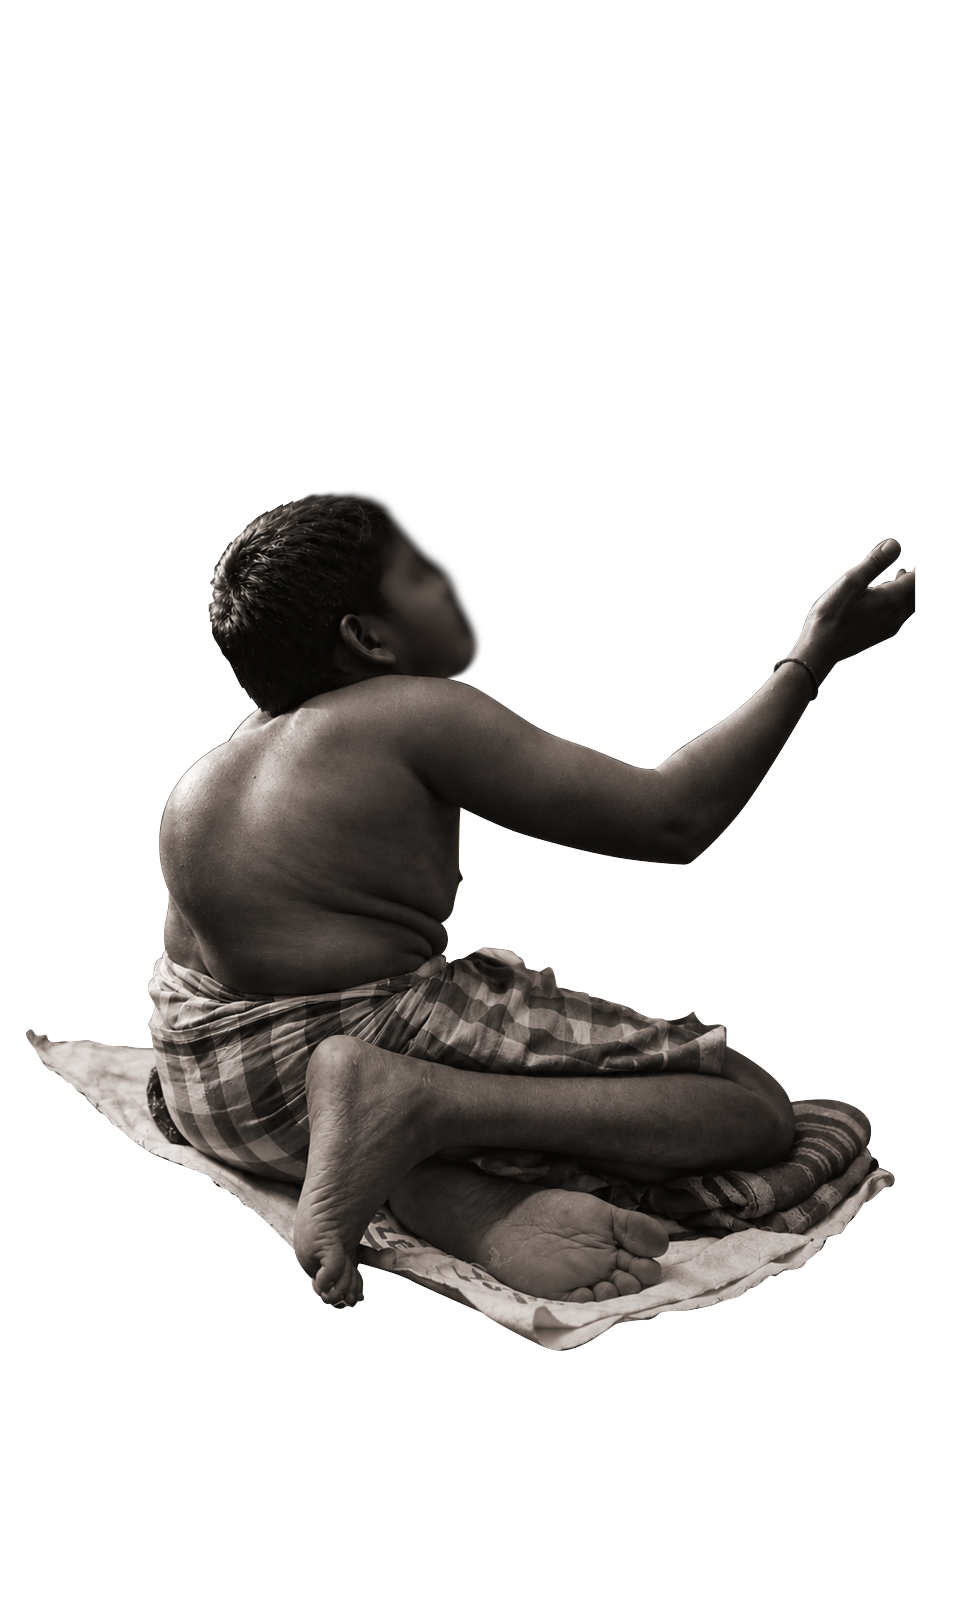
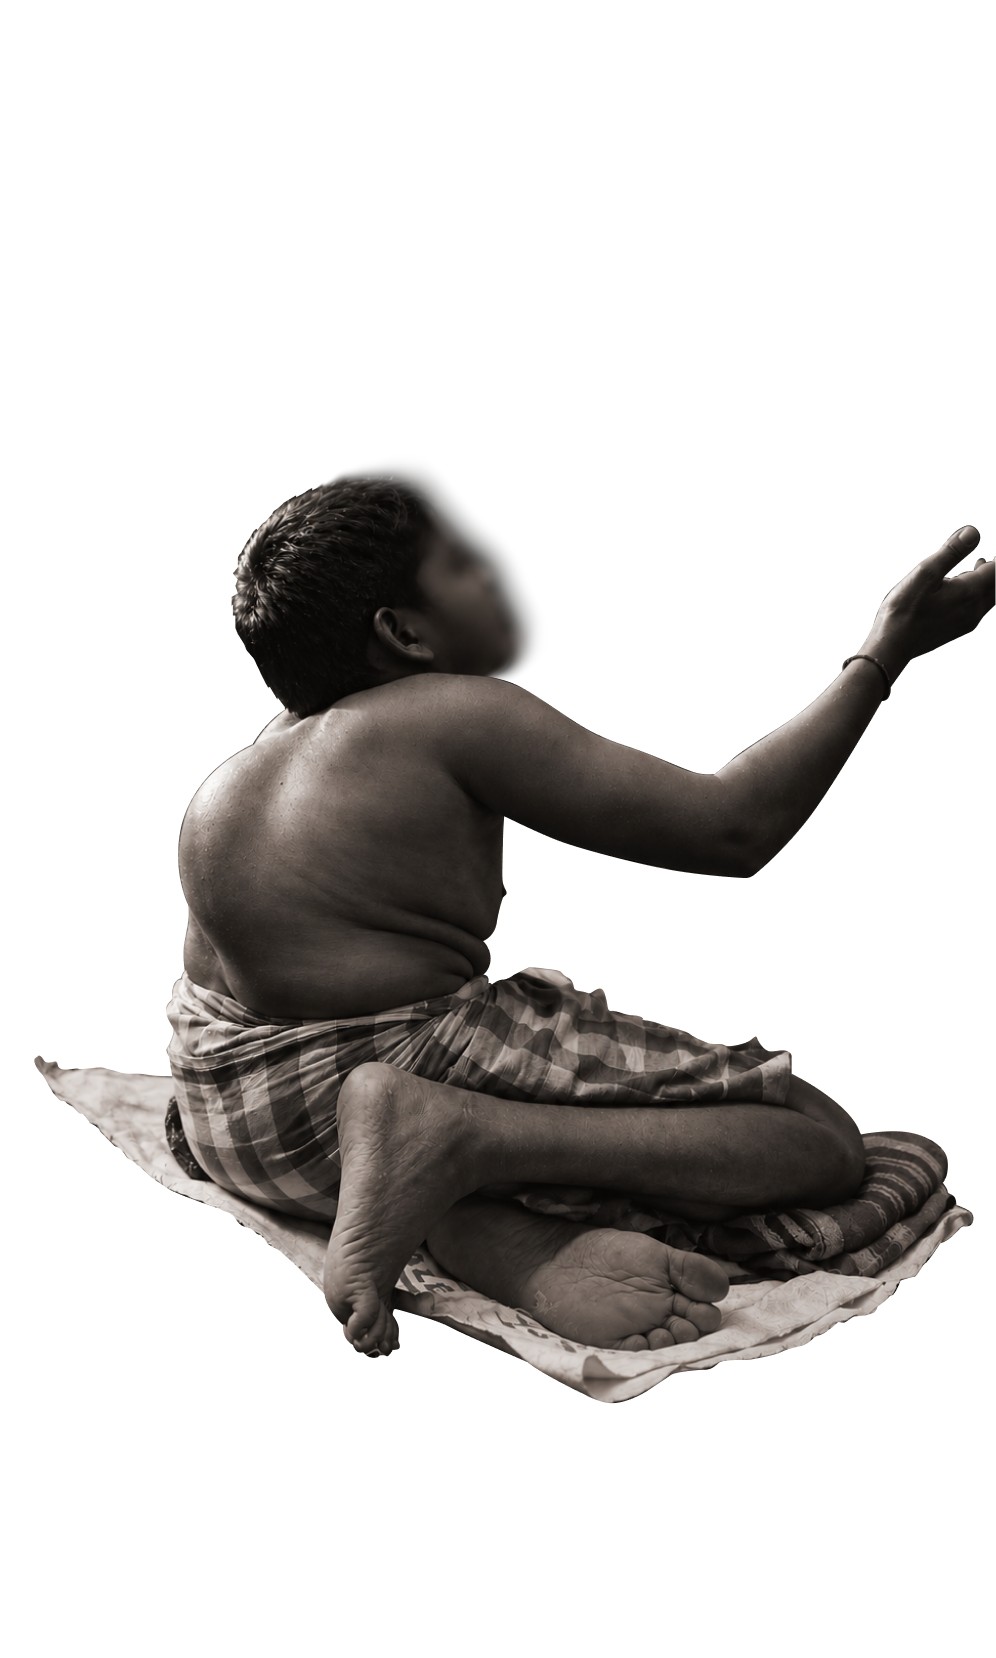
fix: stabilize journey entry slideshow

Changed region(s): [[0.0309, 0.2779, 1.0, 0.8647]]

diff --git a/src/components/WelcomeJourney.tsx b/src/components/WelcomeJourney.tsx
@@ -53,9 +53,6 @@ export const WelcomeJourney: React.FC<WelcomeJourneyProps> = ({
     initialFrame === 2 ? 'backward' : 'forward'
   )
 
-  // Auto-play state: false = manual scrolling by default; true = auto-advances
-  const [isPlaying, setIsPlaying] = useState<boolean>(false)
-
   // Mobile detection for responsive offsets
   const [isMobile, setIsMobile] = useState(() =>
     typeof window !== 'undefined' ? window.innerWidth < 768 : false
@@ -174,9 +171,6 @@ export const WelcomeJourney: React.FC<WelcomeJourneyProps> = ({
 
   const frameRef = useRef(frame)
   frameRef.current = frame
-
-  const isPlayingRef = useRef(isPlaying)
-  isPlayingRef.current = isPlaying
 
   const onCompleteRef = useRef(onComplete)
   onCompleteRef.current = onComplete
@@ -323,18 +317,10 @@ export const WelcomeJourney: React.FC<WelcomeJourneyProps> = ({
       const tDurga = setTimeout(() => setShowDurga(true), 850)
       const tControls = setTimeout(() => setShowControls(true), 1250)
 
-      let tAuto: ReturnType<typeof setTimeout>
-      if (isPlayingRef.current) {
-        tAuto = setTimeout(() => {
-          advanceFrameRef.current(2)
-        }, 3200)
-      }
-
       return () => {
         clearTimeout(tMeet)
         clearTimeout(tDurga)
         clearTimeout(tControls)
-        if (tAuto) clearTimeout(tAuto)
       }
     } else {
       setShowMeet(true)
@@ -374,13 +360,6 @@ export const WelcomeJourney: React.FC<WelcomeJourneyProps> = ({
     const t4 = setTimeout(() => setShowWitness(true), 1950)
     const t5 = setTimeout(() => setShowBlesses(true), 2450)
 
-    let tAuto: ReturnType<typeof setTimeout>
-    if (isPlayingRef.current) {
-      tAuto = setTimeout(() => {
-        advanceFrameRef.current(3)
-      }, 4500)
-    }
-
     return () => {
       clearTimeout(tLogo)
       clearTimeout(t1)
@@ -388,7 +367,6 @@ export const WelcomeJourney: React.FC<WelcomeJourneyProps> = ({
       clearTimeout(t3)
       clearTimeout(t4)
       clearTimeout(t5)
-      if (tAuto) clearTimeout(tAuto)
     }
   }, [frame, transitionDirection])
 
@@ -402,7 +380,6 @@ export const WelcomeJourney: React.FC<WelcomeJourneyProps> = ({
     let touchStartX = 0
 
     const handleWheel = (e: WheelEvent) => {
-      setIsPlaying(false)
       if (isTransitioningRef.current) return
       const now = Date.now()
       if (now - lastGestureTime < 800) return
@@ -427,7 +404,6 @@ export const WelcomeJourney: React.FC<WelcomeJourneyProps> = ({
     }
 
     const handleTouchEnd = (e: TouchEvent) => {
-      setIsPlaying(false)
       if (isTransitioningRef.current) return
       if (e.changedTouches.length === 0) return
       const now = Date.now()
@@ -454,12 +430,10 @@ export const WelcomeJourney: React.FC<WelcomeJourneyProps> = ({
 
       if (['ArrowDown', 'PageDown', 'Space'].includes(e.code)) {
         e.preventDefault()
-        setIsPlaying(false)
         lastGestureTime = now
         advanceFrameRef.current()
       } else if (['ArrowUp', 'PageUp'].includes(e.code)) {
         e.preventDefault()
-        setIsPlaying(false)
         lastGestureTime = now
         previousFrameRef.current()
       }
@@ -551,8 +525,8 @@ export const WelcomeJourney: React.FC<WelcomeJourneyProps> = ({
 
               {/* Mobile View (< md): Stacked vertically and centered at bottom above controls */}
               <div className="md:hidden absolute bottom-[108px] sm:bottom-[116px] inset-x-0 px-4 flex flex-col items-center justify-center text-center select-none pointer-events-none z-10">
-                {showMeet && (
-                  <div className="flex items-center justify-center">
+                <div className="flex items-center justify-center">
+                  {showMeet ? (
                     <BlurText
                       text="MEET"
                       effect="blur"
@@ -565,11 +539,18 @@ export const WelcomeJourney: React.FC<WelcomeJourneyProps> = ({
                       distance={16}
                       className="text-white font-galano font-black uppercase tracking-wide leading-none text-[clamp(34px,10.95vw,44px)] justify-center text-center"
                     />
-                  </div>
-                )}
+                  ) : (
+                    <span
+                      className="invisible text-white font-galano font-black uppercase tracking-wide leading-none text-[clamp(34px,10.95vw,44px)]"
+                      aria-hidden="true"
+                    >
+                      MEET
+                    </span>
+                  )}
+                </div>
 
-                {showDurga && (
-                  <div className="flex items-center justify-center mt-1 sm:mt-1.5">
+                <div className="flex items-center justify-center mt-1 sm:mt-1.5">
+                  {showDurga ? (
                     <BlurText
                       text="DURGA"
                       effect="blur"
@@ -583,9 +564,43 @@ export const WelcomeJourney: React.FC<WelcomeJourneyProps> = ({
                       color="#ff0000"
                       className="font-galano font-black uppercase tracking-tight leading-none text-[clamp(66px,21.4vw,86px)] drop-shadow-[0_2px_16px_rgba(255,0,0,0.4)] justify-center text-center"
                     />
-                  </div>
-                )}
+                  ) : (
+                    <span
+                      className="invisible font-galano font-black uppercase tracking-tight leading-none text-[clamp(66px,21.4vw,86px)]"
+                      aria-hidden="true"
+                    >
+                      DURGA
+                    </span>
+                  )}
+                </div>
               </div>
+            </motion.div>
+          )}
+        </AnimatePresence>
+
+        {/* Mobile boy cutout stays aligned with the shifted base image and above its fade overlay. */}
+        <AnimatePresence>
+          {isMobile && frame <= 2 && (
+            <motion.div
+              key="mobile-boy-cutout"
+              initial={{ opacity: 0 }}
+              animate={{
+                opacity: isBaseImageLoaded && frame === 1 ? 1 : 0,
+                transition: { opacity: { duration: 0.7, ease: [0.16, 1, 0.3, 1] } },
+              }}
+              exit={{ opacity: 0, transition: { duration: 0.5, ease: 'easeInOut' } }}
+              className={`absolute inset-0 z-[5] pointer-events-none journey-frame-${frame === 2 ? '2' : '1'}-shift`}
+              style={{
+                transition: frame === 2 ? 'transform 0.9s cubic-bezier(0.16, 1, 0.3, 1)' : 'none',
+              }}
+            >
+              <img
+                src={`${import.meta.env.BASE_URL}banners/boy-phone.png`}
+                alt=""
+                aria-hidden="true"
+                draggable={false}
+                className="w-full h-full object-cover object-[50%_35%] select-none"
+              />
             </motion.div>
           )}
         </AnimatePresence>
@@ -1170,12 +1185,12 @@ export const WelcomeJourney: React.FC<WelcomeJourneyProps> = ({
         )}
 
         {/* -------------------------------------------------------- */}
-        {/* BOTTOM INTRO CONTROLS: DOWN ARROW & SKIP (LEFT/CENTER) + PLAY/PAUSE (TOP-RIGHT MOBILE / BOTTOM-RIGHT DESKTOP) */}
+        {/* BOTTOM INTRO CONTROLS: FRAME NAVIGATION + SKIP */}
         {/* -------------------------------------------------------- */}
         <AnimatePresence>
           {frame < 3 && showControls && (
             <>
-              {/* Left/Center Controls: Previous/Next Frame Buttons + Skip Pill Button */}
+              {/* Previous/Next Frame Buttons; Skip stays inline on mobile. */}
               <motion.div
                 key="left-journey-controls"
                 initial={{ opacity: 0, y: 30 }}
@@ -1193,10 +1208,7 @@ export const WelcomeJourney: React.FC<WelcomeJourneyProps> = ({
                   {frame > 1 && (
                     <button
                       type="button"
-                      onClick={() => {
-                        setIsPlaying(false)
-                        previousFrame()
-                      }}
+                      onClick={previousFrame}
                       className="w-11 h-11 sm:w-12 sm:h-12 rounded-full bg-black/50 backdrop-blur-md border border-white/15 text-white/90 hover:text-white hover:bg-black/70 hover:scale-105 active:scale-95 transition-all flex items-center justify-center cursor-pointer shadow-xl rotate-180"
                       aria-label="Previous frame"
                       title="Previous frame"
@@ -1208,10 +1220,7 @@ export const WelcomeJourney: React.FC<WelcomeJourneyProps> = ({
                   {/* Next Frame Down Button with arrow_cool_down icon */}
                   <button
                     type="button"
-                    onClick={() => {
-                      setIsPlaying(false)
-                      advanceFrame()
-                    }}
+                    onClick={() => advanceFrame()}
                     className="w-11 h-11 sm:w-12 sm:h-12 rounded-full bg-black/50 backdrop-blur-md border border-white/15 text-white/90 hover:text-white hover:bg-black/70 hover:scale-105 active:scale-95 transition-all flex items-center justify-center cursor-pointer shadow-xl"
                     aria-label="Next frame"
                     title="Next frame"
@@ -1223,7 +1232,7 @@ export const WelcomeJourney: React.FC<WelcomeJourneyProps> = ({
                   <button
                     type="button"
                     onClick={onSkip}
-                    className="h-11 sm:h-12 px-5 sm:px-6 rounded-full bg-black/50 backdrop-blur-md border border-white/15 text-white/90 hover:text-white hover:bg-black/70 hover:scale-105 active:scale-95 transition-all flex items-center gap-2 font-sans text-xs sm:text-sm font-semibold tracking-normal cursor-pointer shadow-xl uppercase"
+                    className="md:hidden h-11 sm:h-12 px-5 sm:px-6 rounded-full bg-black/50 backdrop-blur-md border border-white/15 text-white/90 hover:text-white hover:bg-black/70 hover:scale-105 active:scale-95 transition-all flex items-center gap-2 font-sans text-xs sm:text-sm font-semibold tracking-normal cursor-pointer shadow-xl uppercase"
                     aria-label="Skip welcome journey"
                   >
                     <MaterialIcon name="fast_forward" size={17} />
@@ -1232,27 +1241,27 @@ export const WelcomeJourney: React.FC<WelcomeJourneyProps> = ({
                 </div>
               </motion.div>
 
-              {/* Play / Pause Button: Top-Right on Mobile (< md), Bottom-Right on Desktop (>= md) */}
+              {/* Desktop Skip takes the former play/pause position. */}
               <motion.div
-                key="right-journey-controls"
-                initial={{ opacity: 0, scale: 0.8 }}
-                animate={{ opacity: 1, scale: 1 }}
+                key="desktop-skip-control"
+                initial={{ opacity: 0, y: 30 }}
+                animate={{ opacity: 1, y: 0 }}
                 exit={{
                   opacity: 0,
                   scale: 0.3,
                   transition: { duration: 0.3, ease: [0.16, 1, 0.3, 1] },
                 }}
                 transition={{ duration: 0.8, ease: [0.16, 1, 0.3, 1] }}
-                className="absolute top-5 right-5 sm:top-6 sm:right-6 md:top-auto md:bottom-7 md:right-7 z-50 flex items-center pointer-events-auto"
+                className="hidden md:flex absolute bottom-6 sm:bottom-7 right-7 z-50 items-center pointer-events-none"
               >
                 <button
                   type="button"
-                  onClick={() => setIsPlaying((p) => !p)}
-                  className="w-10 h-10 sm:w-11 sm:h-11 md:w-12 md:h-12 rounded-full bg-black/50 backdrop-blur-md border border-white/15 text-white/90 hover:text-white hover:bg-black/70 transition-all flex items-center justify-center cursor-pointer shadow-xl hover:scale-105 active:scale-95"
-                  aria-label={isPlaying ? 'Pause auto-play' : 'Start auto-play'}
-                  title={isPlaying ? 'Pause auto-play (switch to manual scroll)' : 'Start auto-play'}
+                  onClick={onSkip}
+                  className="pointer-events-auto h-11 sm:h-12 px-5 sm:px-6 rounded-full bg-black/50 backdrop-blur-md border border-white/15 text-white/90 hover:text-white hover:bg-black/70 hover:scale-105 active:scale-95 transition-all flex items-center gap-2 font-sans text-xs sm:text-sm font-semibold tracking-normal cursor-pointer shadow-xl uppercase"
+                  aria-label="Skip welcome journey"
                 >
-                  <MaterialIcon name={isPlaying ? 'pause' : 'play_arrow'} size={20} className="md:text-[22px]" />
+                  <MaterialIcon name="fast_forward" size={17} />
+                  <span>Skip</span>
                 </button>
               </motion.div>
             </>

diff --git a/src/components/Hero.tsx b/src/components/Hero.tsx
@@ -26,7 +26,7 @@ const paneFadeVariants = {
 }
 
 const SLIDE_INTERVAL = 6000 // ms between slides
-const ENTRANCE_SETTLE_TIME = 2800 // ms to wait for entrance animation before starting rotation
+const ENTRANCE_SETTLE_TIME = 6800 // entrance animation plus a 4-second pause before rotation
 
 export const Hero: React.FC<HeroProps> = ({
   onReplayJourney,
@@ -40,6 +40,7 @@ export const Hero: React.FC<HeroProps> = ({
   const visibleSlide = isEnteringFromJourney ? 0 : currentSlide
   const [slideshowReady, setSlideshowReady] = useState(!isEnteringFromJourney)
   const intervalRef = useRef<ReturnType<typeof setInterval> | null>(null)
+  const entranceReadyTimeoutRef = useRef<ReturnType<typeof setTimeout> | null>(null)
 
   // Staggered reveal states when entering from journey (only for pane 0 initial entrance)
   const [showItem1, setShowItem1] = useState(!isEnteringFromJourney)
@@ -67,7 +68,13 @@ export const Hero: React.FC<HeroProps> = ({
       const t4 = setTimeout(() => setShowItem4(true), 1350)
       const t5 = setTimeout(() => setShowItem5(true), 1750)
       const tBtn = setTimeout(() => setShowButton(true), 2150)
-      const tReady = setTimeout(() => setSlideshowReady(true), ENTRANCE_SETTLE_TIME)
+      if (entranceReadyTimeoutRef.current) {
+        clearTimeout(entranceReadyTimeoutRef.current)
+      }
+      entranceReadyTimeoutRef.current = setTimeout(() => {
+        entranceReadyTimeoutRef.current = null
+        setSlideshowReady(true)
+      }, ENTRANCE_SETTLE_TIME)
 
       return () => {
         clearTimeout(t1)
@@ -76,7 +83,6 @@ export const Hero: React.FC<HeroProps> = ({
         clearTimeout(t4)
         clearTimeout(t5)
         clearTimeout(tBtn)
-        clearTimeout(tReady)
       }
     } else {
       setShowItem1(true)
@@ -85,9 +91,18 @@ export const Hero: React.FC<HeroProps> = ({
       setShowItem4(true)
       setShowItem5(true)
       setShowButton(true)
-      setSlideshowReady(true)
+      // Keep the first pane in place if the journey flight ends before its settle delay.
+      if (!entranceReadyTimeoutRef.current) {
+        setSlideshowReady(true)
+      }
     }
   }, [isEnteringFromJourney])
+
+  useEffect(() => () => {
+    if (entranceReadyTimeoutRef.current) {
+      clearTimeout(entranceReadyTimeoutRef.current)
+    }
+  }, [])
 
   // Auto-rotate slides once ready
   useEffect(() => {

diff --git a/src/App.tsx b/src/App.tsx
@@ -171,14 +171,14 @@ export const App: React.FC = () => {
                 className="absolute inset-0 w-full h-full overflow-hidden"
               >
                 <div
-                  className={`w-full h-[calc(100%+35vh)] md:h-full absolute top-0 inset-x-0 will-change-transform z-0 ${
+                  className={`w-full h-full absolute top-0 inset-x-0 will-change-transform z-0 ${
                     journeyFrame === 2 ? 'journey-frame-2-shift' : 'journey-frame-1-shift'
                   }`}
                   style={{
                     transition: journeyFrame === 2 ? 'transform 0.9s cubic-bezier(0.16, 1, 0.3, 1)' : 'none',
                   }}
                 >
-                  <picture className="w-full h-full block">
+                  <picture className="relative z-0 w-full h-full block">
                     <source
                       media="(max-width: 768px)"
                       srcSet={`${import.meta.env.BASE_URL}banners/Silent%20Amidst%20the%20Passing%20Crowd%201%20-%20phone.png`}
@@ -190,6 +190,7 @@ export const App: React.FC = () => {
                       onLoad={() => setIsJourneyBaseImageLoaded(true)}
                     />
                   </picture>
+
                 </div>
               </motion.div>
             ) : (

diff --git a/src/index.css b/src/index.css
@@ -204,10 +204,10 @@ body::-webkit-scrollbar,
 /* Mobile Welcome Journey Frame 1 & 2 background elevation */
 @media (max-width: 767px) {
   .journey-frame-1-shift {
-    transform: translateY(-16vh) !important;
+    transform: translateY(-10vh) !important;
   }
   .journey-frame-2-shift {
-    transform: translateY(-26vh) !important;
+    transform: translateY(-20vh) !important;
   }
 }
 @media (min-width: 768px) {
